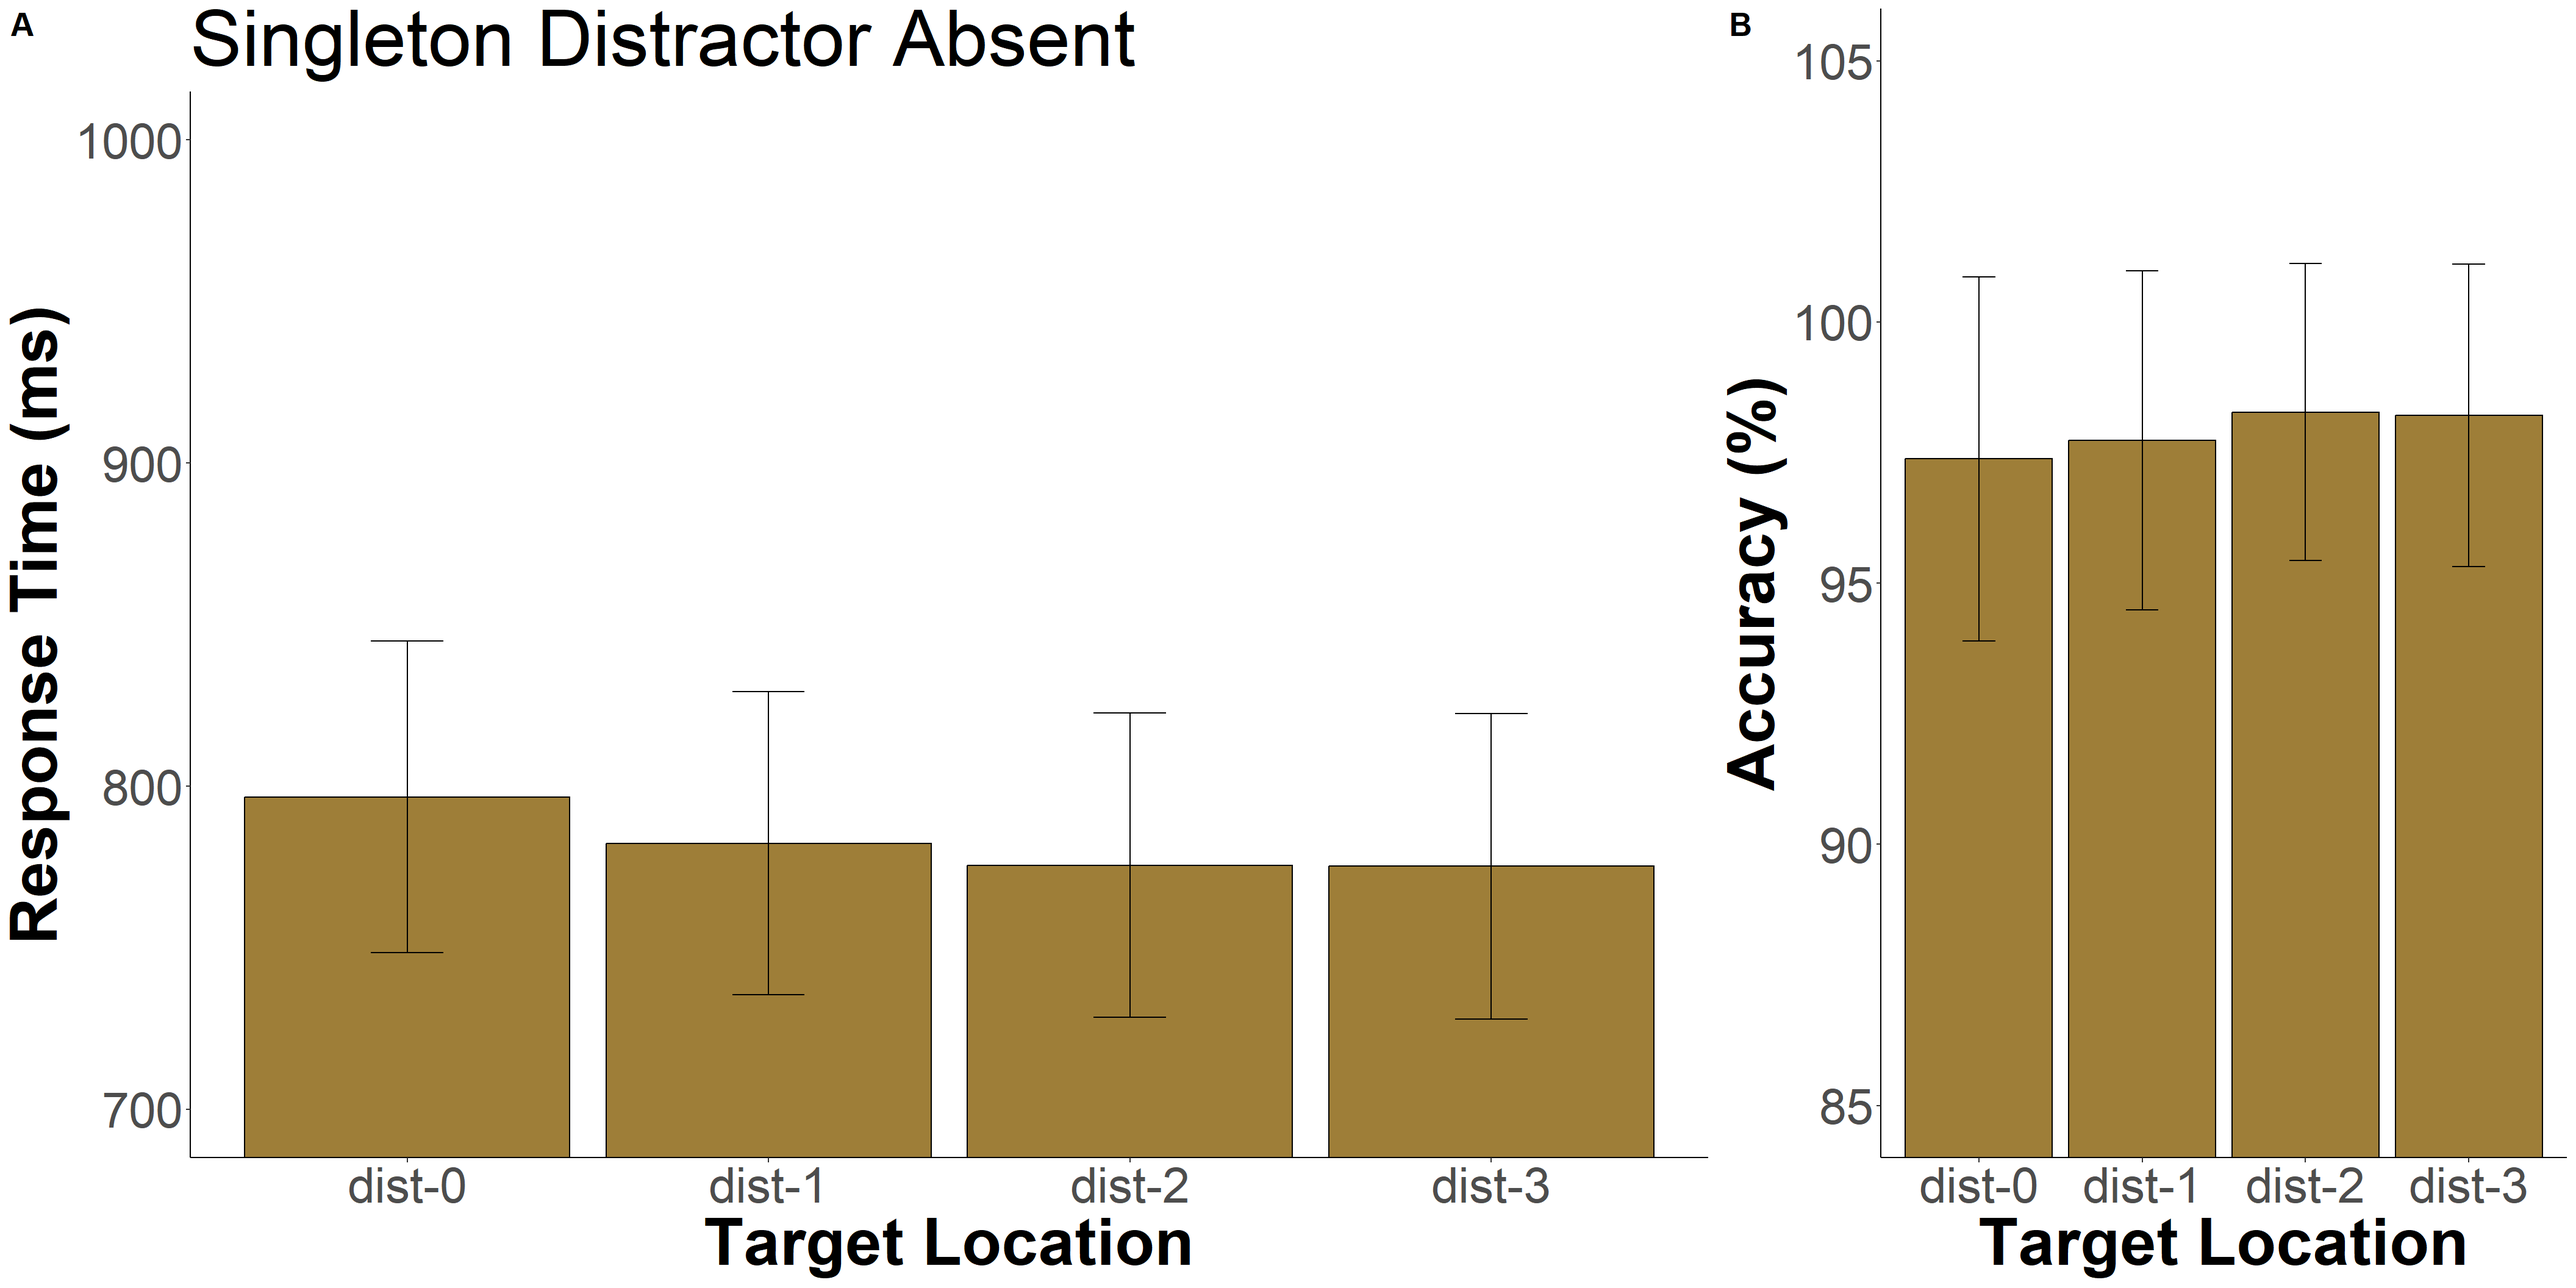
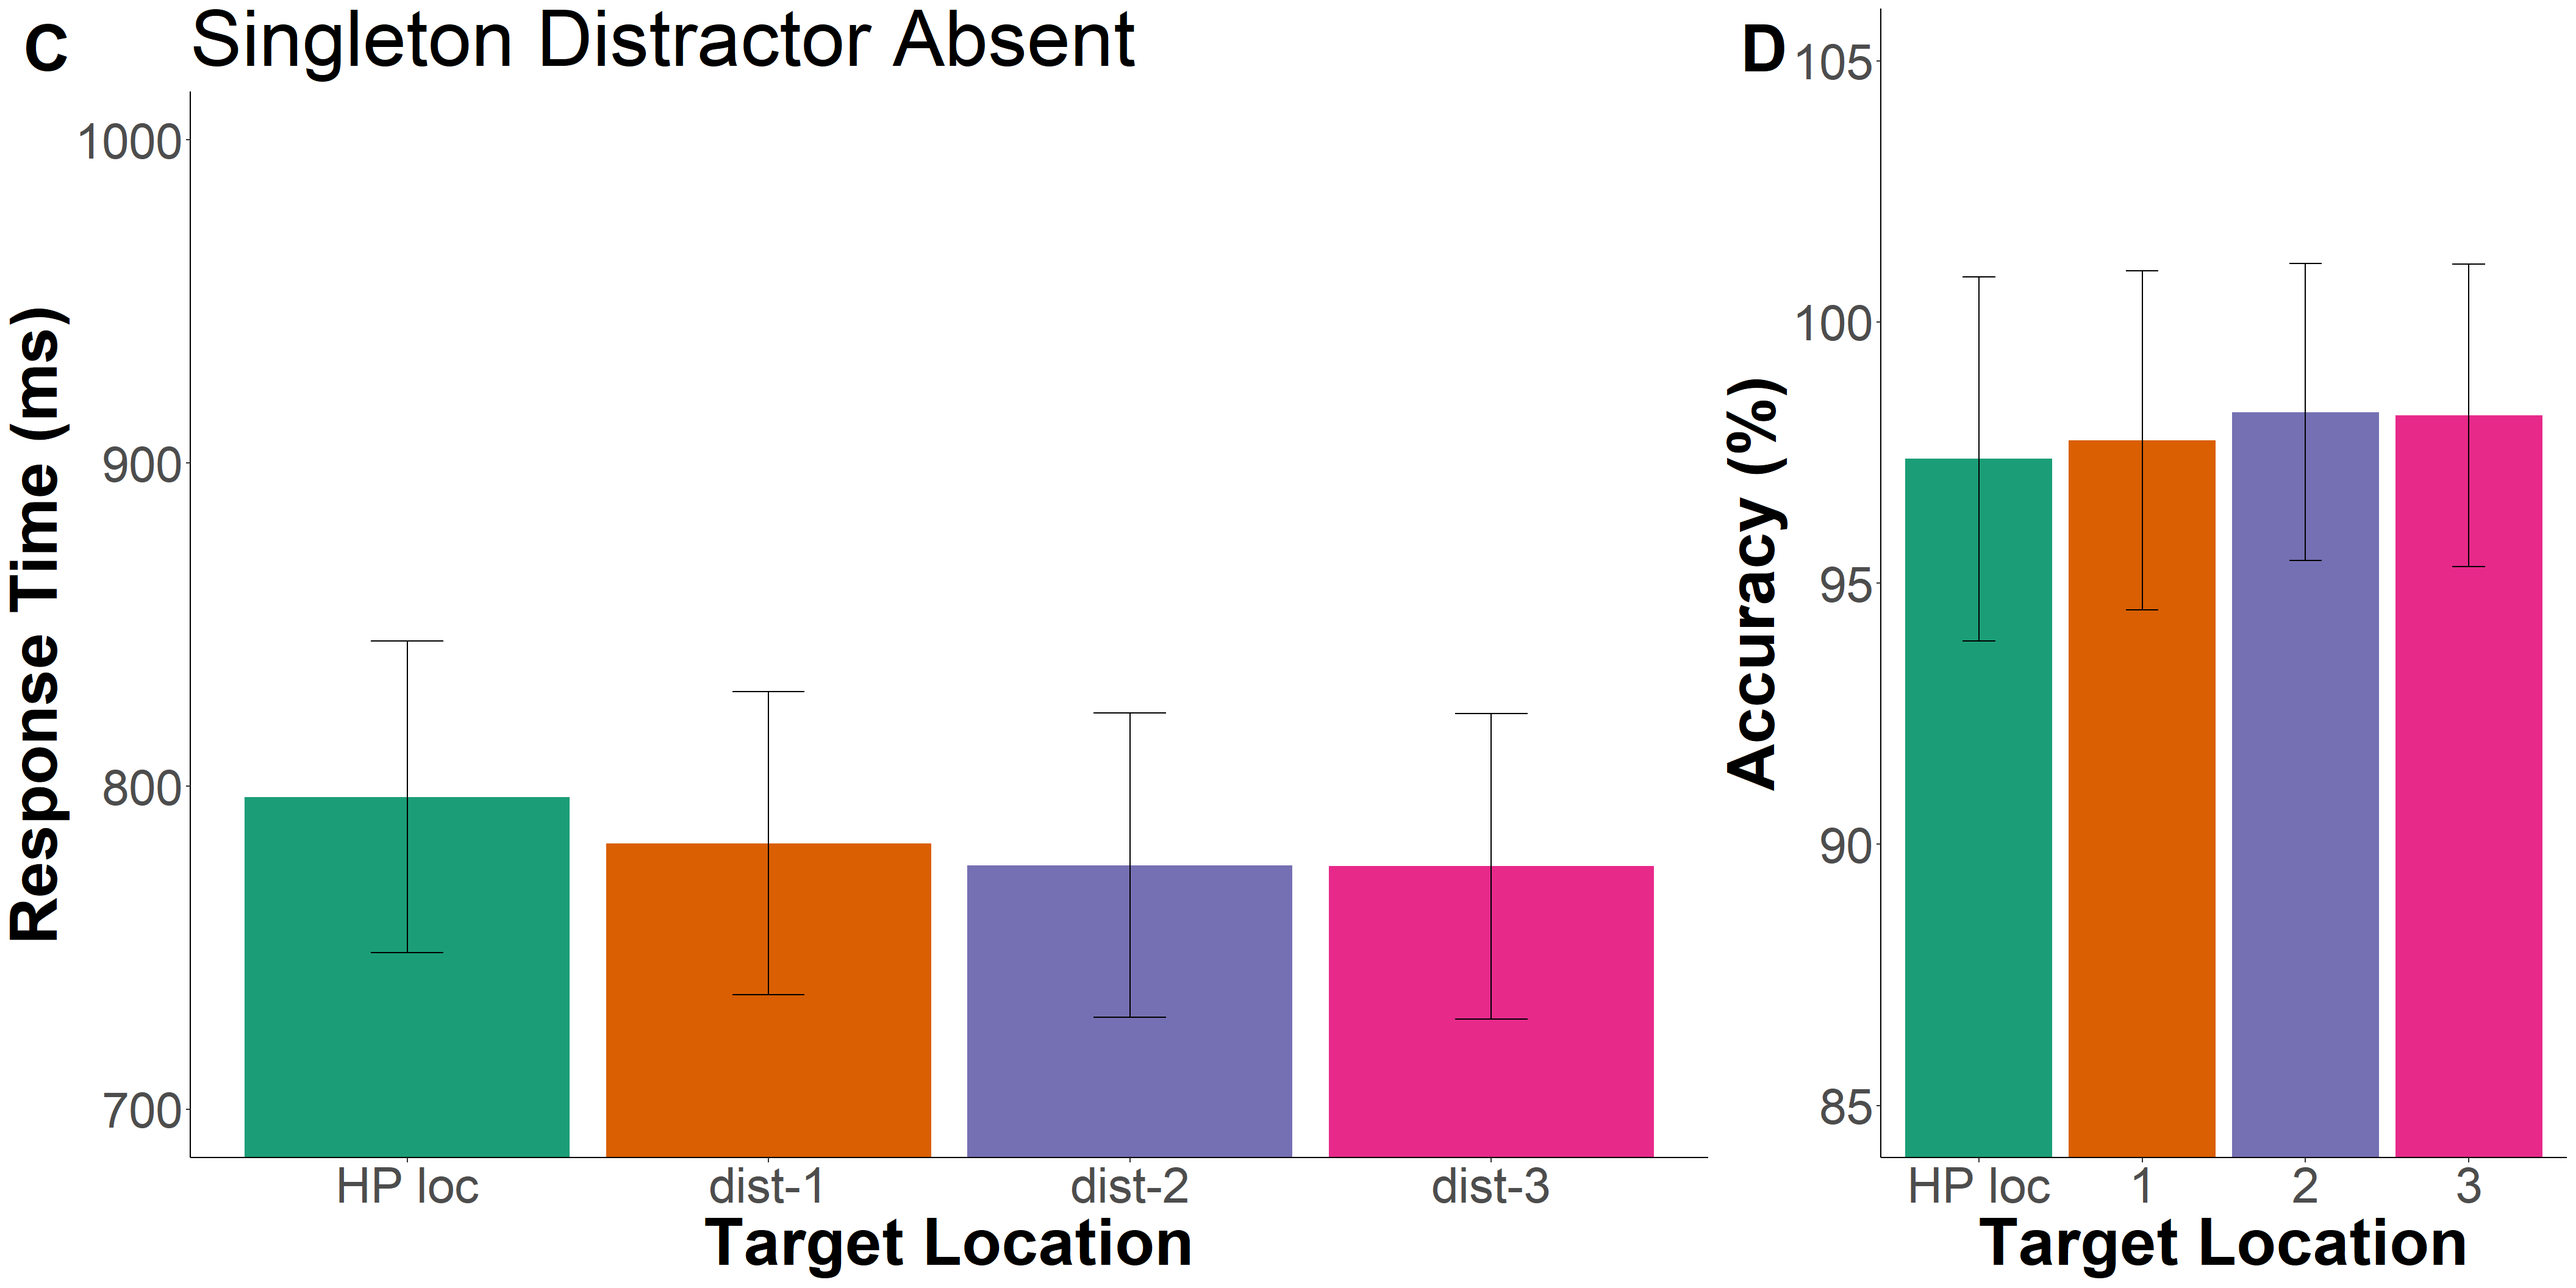
update plots of pilot for thesis

diff --git a/docs/p02.html b/docs/p02.html
@@ -434,17 +434,18 @@ target_means</code></pre>
 location of the target relative to the high probability location of the
 distractor. I chose those particular colors based on Wake Forest’s color
 scheme.</p>
-<pre class="r"><code>c&lt;-ggplot(data = target_means, aes(x = relative_target, y = mean_rts)) +
-  geom_bar(stat = &quot;identity&quot;, fill=&quot;#9E7E38&quot;, color=&#39;#000000&#39;) +
+<pre class="r"><code>c&lt;-ggplot(data = target_means, aes(x = relative_target, y = mean_rts, fill=relative_target)) +
+  geom_bar(stat = &quot;identity&quot;, show.legend = FALSE) +
   geom_errorbar(aes(ymin=lower_limit, ymax=upper_limit), width=0.2)+
   coord_cartesian(ylim = c(700,1000))+
   theme_classic()+
+  scale_fill_brewer(palette=&quot;Dark2&quot;)+
   labs(x = &quot;Target Location&quot;, y = &quot;Response Time (ms)&quot;)+
   labs(title = &quot;Singleton Distractor Absent&quot;)+
   theme(axis.text=element_text(size=30),
     axis.title=element_text(size=40,face=&quot;bold&quot;),
     title = element_text(size = 40))+
-  scale_x_discrete(labels= c(&quot;high_prob&quot;=&quot;dist-0&quot;,&quot;lp_1&quot;=&quot;dist-1&quot;, &quot;lp_2&quot;=&quot;dist-2&quot;, &quot;lp_3&quot;=&quot;dist-3&quot;))</code></pre>
+  scale_x_discrete(labels= c(&quot;high_prob&quot;=&quot;HP loc&quot;,&quot;lp_1&quot;=&quot;dist-1&quot;, &quot;lp_2&quot;=&quot;dist-2&quot;, &quot;lp_3&quot;=&quot;dist-3&quot;))</code></pre>
 <pre class="r"><code>df2 &lt;- subset(trimmed,block_num!=&#39;7&#39; &amp; relative_hp_dist==&quot;no_dist&quot;)
 df2 &lt;- subset(df2,block_num!=&#39;8&#39;)
 df2 &lt;- subset(df2,block_num!=&#39;5&#39;)
@@ -744,19 +745,20 @@ pilot_targacc &lt;- pilot %&gt;%
         title = element_text(size = 16))+
   scale_x_discrete(labels= c(&quot;no_dist&quot;=&quot;no-dist&quot;,&quot;dist_0&quot;=&quot;dist-0&quot;,&quot;dist_1&quot;=&quot;dist-1&quot;,&quot;dist_2&quot;=&quot;dist-2&quot;,&quot;dist_3&quot;=&quot;dist-3&quot;))</code></pre>
 <p><img src="p02_files/figure-html/-%20graph%20distractor%20location%20effects%20on%20accuracy-1.png" width="576" /></p>
-<pre class="r"><code>d&lt;-ggplot(data = pilot_targacc, aes(x = relative_target, y = accuracy)) +
-  geom_bar(stat = &quot;identity&quot;, fill=&quot;#9E7E38&quot;, color=&#39;#000000&#39;) +
+<pre class="r"><code>d&lt;-ggplot(data = pilot_targacc, aes(x = relative_target, y = accuracy, fill=relative_target)) +
+  geom_bar(stat = &quot;identity&quot;, show.legend = FALSE) +
   geom_errorbar(aes(ymin=lower_limit, ymax=upper_limit), width=0.2)+
   coord_cartesian(ylim = c(85,105))+
   theme_classic()+
+  scale_fill_brewer(palette=&quot;Dark2&quot;)+
   labs(x = &quot;Target Location&quot;, y = &quot;Accuracy (%)&quot;)+
   #labs(title = &quot;Target Location Effect on Accuracy&quot;)+
   theme(axis.text=element_text(size=30),
         axis.title=element_text(size=40,face=&quot;bold&quot;),
         title = element_text(size = 40))+
-  scale_x_discrete(labels= c(&quot;high_prob&quot;=&quot;dist-0&quot;,&quot;lp_1&quot;=&quot;dist-1&quot;,&quot;lp_2&quot;=&quot;dist-2&quot;,&quot;lp_3&quot;=&quot;dist-3&quot;))</code></pre>
+  scale_x_discrete(labels= c(&quot;high_prob&quot;=&quot;HP loc&quot;,&quot;lp_1&quot;=&quot;1&quot;,&quot;lp_2&quot;=&quot;2&quot;,&quot;lp_3&quot;=&quot;3&quot;))</code></pre>
 <p>Created the below plot for NC Cognition Poster.</p>
-<pre class="r"><code>plot_grid(c,d,labels = c(&#39;A&#39;,&#39;B&#39;), label_size=20, rel_widths = c(2,1))</code></pre>
+<pre class="r"><code>plot_grid(c,d,labels = c(&#39;C&#39;,&#39;D&#39;), label_size=40, rel_widths = c(2,1))</code></pre>
 <p><img src="p02_files/figure-html/join-2-figures-1.png" width="2112" /></p>
 <pre class="r"><code>pilot_dist &lt;- pilot %&gt;%
   group_by(ID, relative_hp_dist) %&gt;%
@@ -880,7 +882,7 @@ dist_t &lt;- dist_t %&gt;%
   mutate(low_prob = (dist_1+dist_2+dist_3)/3)
 
 dist_t %&gt;%
-  t.test(x=dist_t$dist_0, y=dist_t$low_prob, alternative=&quot;greater&quot;, mu=0,paired = TRUE, conf.level = .95) </code></pre>
+  t.test(x=dist_t$dist_0, y=dist_t$low_prob, alternative=&quot;greater&quot;, mu=0,paired = TRUE, conf.level = .95)</code></pre>
 <pre><code>## 
 ##  Paired t-test
 ## 
@@ -892,6 +894,32 @@ dist_t %&gt;%
 ## sample estimates:
 ## mean difference 
 ##        1.366686</code></pre>
+<pre class="r"><code>dist_t %&gt;%
+  t.test(x=dist_t$no_dist, y=dist_t$dist_0, alternative=&quot;greater&quot;, mu=0,paired = TRUE, conf.level = .95) </code></pre>
+<pre><code>## 
+##  Paired t-test
+## 
+## data:  dist_t$no_dist and dist_t$dist_0
+## t = 5.6153, df = 20, p-value = 8.501e-06
+## alternative hypothesis: true mean difference is greater than 0
+## 95 percent confidence interval:
+##  1.254909      Inf
+## sample estimates:
+## mean difference 
+##        1.811224</code></pre>
+<pre class="r"><code>dist_t %&gt;%
+  t.test(x=dist_t$no_dist, y=dist_t$low_prob, alternative=&quot;greater&quot;, mu=0,paired = TRUE, conf.level = .95) </code></pre>
+<pre><code>## 
+##  Paired t-test
+## 
+## data:  dist_t$no_dist and dist_t$low_prob
+## t = 3.8565, df = 20, p-value = 0.0004919
+## alternative hypothesis: true mean difference is greater than 0
+## 95 percent confidence interval:
+##  1.756682      Inf
+## sample estimates:
+## mean difference 
+##         3.17791</code></pre>
 <p>Running ANOVA on high-prob, low-prob, and distractor absent
 trials.</p>
 <pre class="r"><code>df_mod &lt;- subset(dist_t, select=c(ID, no_dist, dist_0, low_prob))

diff --git a/docs/p01.html b/docs/p01.html
@@ -386,19 +386,20 @@ sum_stats</code></pre>
 <p>This figure displays the mean response times depending on the
 location of the distractor relative to the high probability location. I
 chose those particular colors based on Wake Forest’s color scheme.</p>
-<pre class="r"><code>a&lt;-ggplot(data = sum_stats, aes(x = relative_hp_dist, y = mean_rts)) +
+<pre class="r"><code>a&lt;-ggplot(data = sum_stats, aes(x = relative_hp_dist, y = mean_rts, fill=relative_hp_dist)) +
   #geom_point()+
-  geom_bar(stat = &quot;identity&quot;, fill=&quot;blue&quot;, color=&#39;#000000&#39;) + ##9E7E38
+  geom_bar(stat = &quot;identity&quot;, show.legend = FALSE) +
   geom_errorbar(aes(ymin=lower_limit, ymax=upper_limit), width=0.2)+
   coord_cartesian(ylim = c(700,1050))+
   theme_classic()+
+  scale_fill_brewer(palette=&quot;Dark2&quot;) +
   labs(x = &quot;Distractor Location&quot;, y = &quot;Response Time (ms)&quot;)+
   labs(title = &quot;Singleton Distractor Present&quot;)+
   #labs(caption = &quot;An ANOVA test shows a difference in RT depending on distractor location, F(3.28,65.57)=33.3, p&lt;.001.&quot;)+
   theme(axis.text=element_text(size=30),
         axis.title=element_text(size=40,face=&quot;bold&quot;),
         title = element_text(size = 40))+
-  scale_x_discrete(labels= c(&quot;no_dist&quot;=&quot;no-dist&quot;,&quot;dist_0&quot;=&quot;dist-0&quot;,&quot;dist_1&quot;=&quot;dist-1&quot;,&quot;dist_2&quot;=&quot;dist-2&quot;,&quot;dist_3&quot;=&quot;dist-3&quot;))</code></pre>
+  scale_x_discrete(labels= c(&quot;no_dist&quot;=&quot;Absent&quot;,&quot;dist_0&quot;=&quot;HP loc&quot;,&quot;dist_1&quot;=&quot;dist-1&quot;,&quot;dist_2&quot;=&quot;dist-2&quot;,&quot;dist_3&quot;=&quot;dist-3&quot;))</code></pre>
 <p>Create a new data frame with the average RT for each relative
 distractor location per participant, so we can do a repeated measures
 ANOVA.</p>
@@ -699,19 +700,20 @@ model3</code></pre>
             lower_limit=accuracy-se
             )
 
-b&lt;-ggplot(data = pilot_distacc, aes(x = relative_hp_dist, y = accuracy)) +
-  geom_bar(stat = &quot;identity&quot;, fill=&quot;#9E7E38&quot;, color=&#39;#000000&#39;) +
+b&lt;-ggplot(data = pilot_distacc, aes(x = relative_hp_dist, y = accuracy, fill=relative_hp_dist)) +
+  geom_bar(stat = &quot;identity&quot;, show.legend = FALSE) +
   geom_errorbar(aes(ymin=lower_limit, ymax=upper_limit), width=0.2)+
   coord_cartesian(ylim = c(85,105))+
   theme_classic()+
+  scale_fill_brewer(palette=&quot;Dark2&quot;)+
   labs(x = &quot;Distractor Location&quot;, y = &quot;Accuracy (%)&quot;)+
   #labs(title = &quot;Distractor Location Effect on Accuracy&quot;)+
   theme(axis.text=element_text(size=30),
         axis.title=element_text(size=40,face=&quot;bold&quot;),
         title = element_text(size = 24))+
-  scale_x_discrete(labels= c(&quot;no_dist&quot;=&quot;no-dist&quot;,&quot;dist_0&quot;=&quot;dist-0&quot;,&quot;dist_1&quot;=&quot;1&quot;,&quot;dist_2&quot;=&quot;2&quot;,&quot;dist_3&quot;=&quot;3&quot;))</code></pre>
+  scale_x_discrete(labels= c(&quot;no_dist&quot;=&quot;Absent&quot;,&quot;dist_0&quot;=&quot;HP loc&quot;,&quot;dist_1&quot;=&quot;1&quot;,&quot;dist_2&quot;=&quot;2&quot;,&quot;dist_3&quot;=&quot;3&quot;))</code></pre>
 <pre class="r"><code>#
-plot_grid(a,b,labels = c(&#39;A&#39;,&#39;B&#39;), label_size=20, rel_widths = c(2,1))</code></pre>
+plot_grid(a,b,labels = c(&#39;A&#39;,&#39;B&#39;), label_size=40, rel_widths = c(2,1))</code></pre>
 <p><img src="p01_files/figure-html/dist_2-plots-1.png" width="2112" /></p>
 </div>
 <div id="examine-block-by-block-learning-of-distractor-location"
